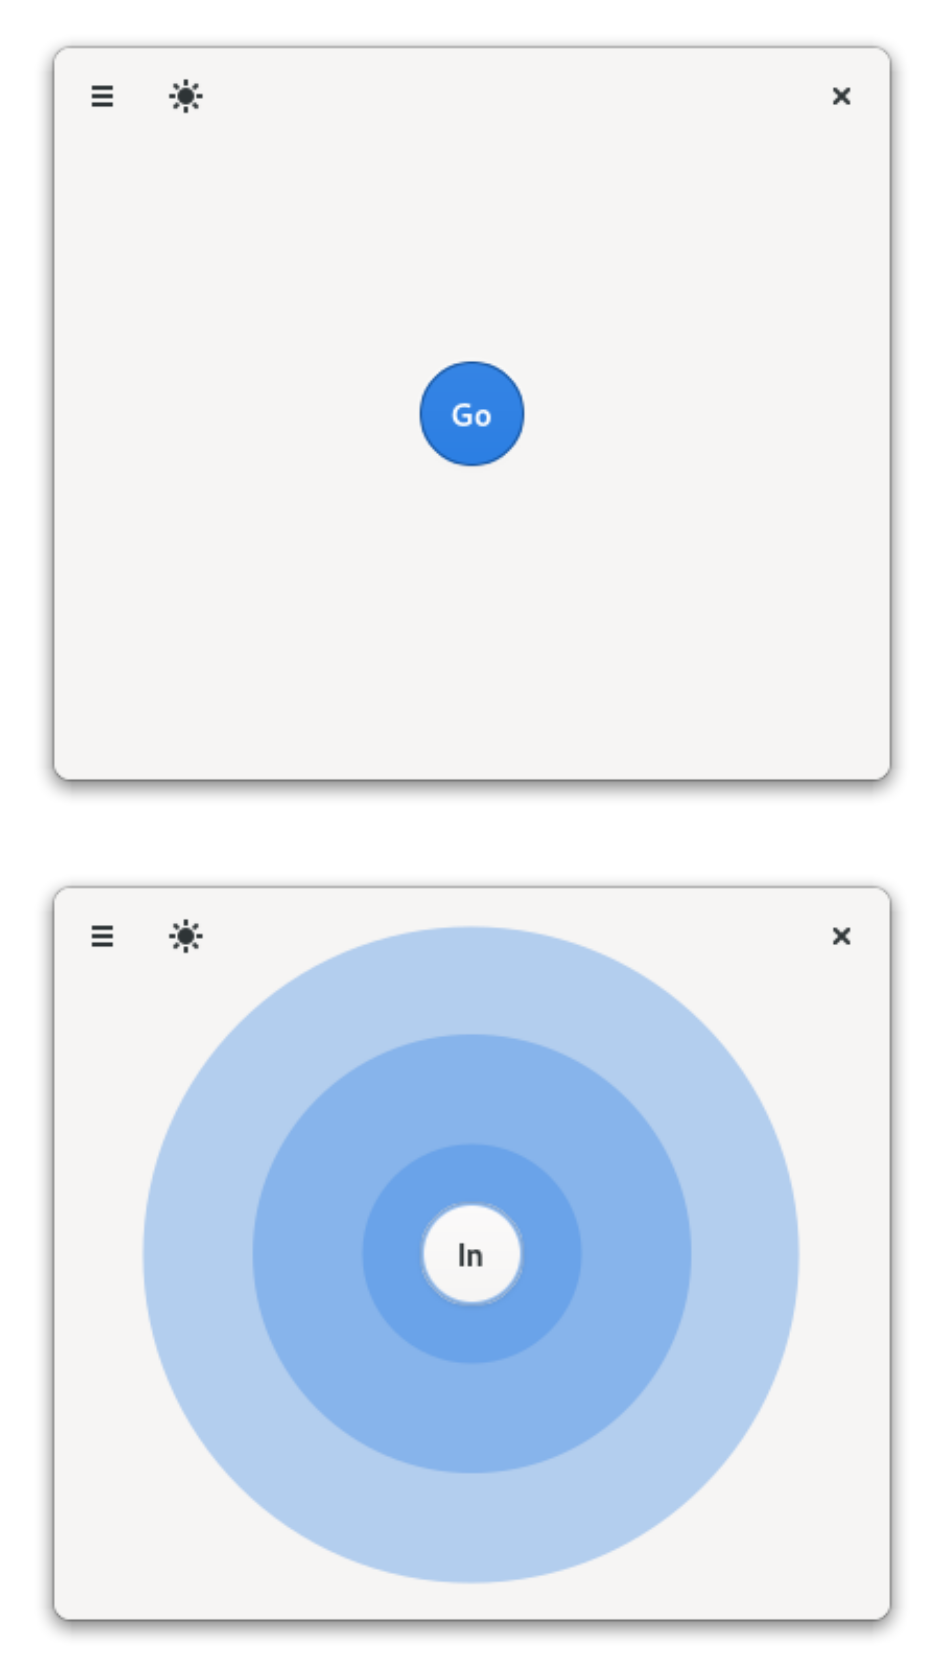
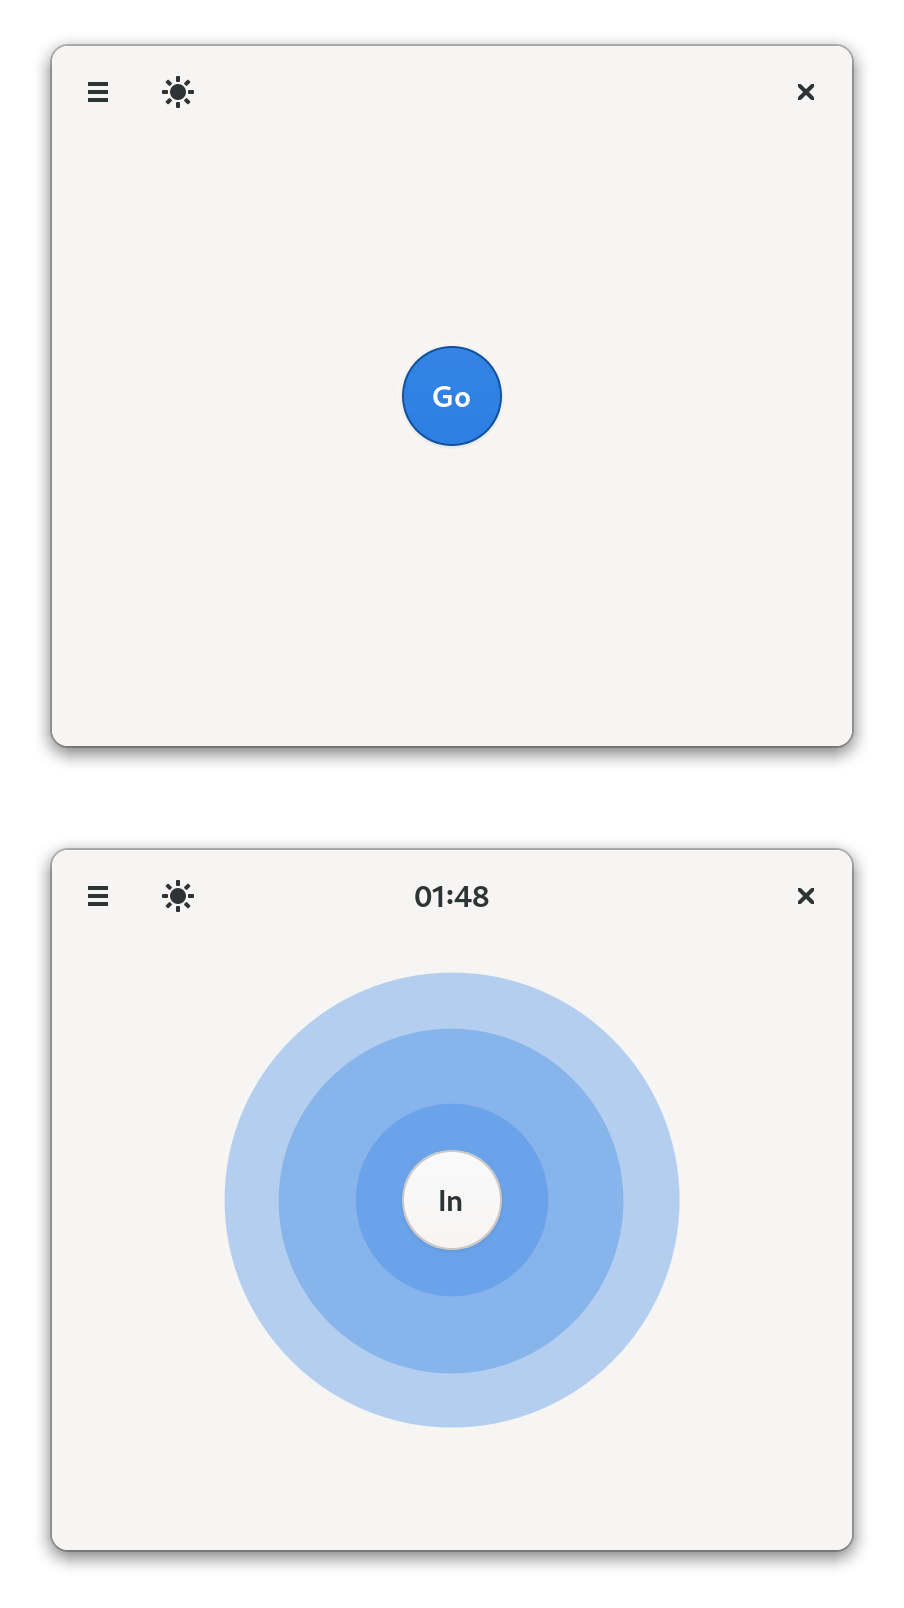
chore: Update screenshots

diff --git a/src/window.py b/src/window.py
@@ -19,12 +19,6 @@ from gi.repository import Adw, Gtk, Gio
 
 from breathing.timer import Timer
 
-# TODO
-# Add feature to play sounds
-# Update screenshots
-# Update translation files
-# Publish to flathub and implement autopublish and update readme
-
 
 @Gtk.Template(resource_path='/io/github/seadve/Breathing/ui/window.ui')
 class BreathingWindow(Adw.ApplicationWindow):

diff --git a/README.md b/README.md
@@ -30,7 +30,6 @@ a calming sound to make it much easier to relax.
 
 The main features of Breathing includes the following:
 * 🌬 Guide your breathing.
-* 💆 Play a relaxing tone.
 * 🌑 Change to a dark-mode with ease.
 * 📱 Easy-to-use user interface.
 * ⌨ User-friendly keyboard shortcuts.
